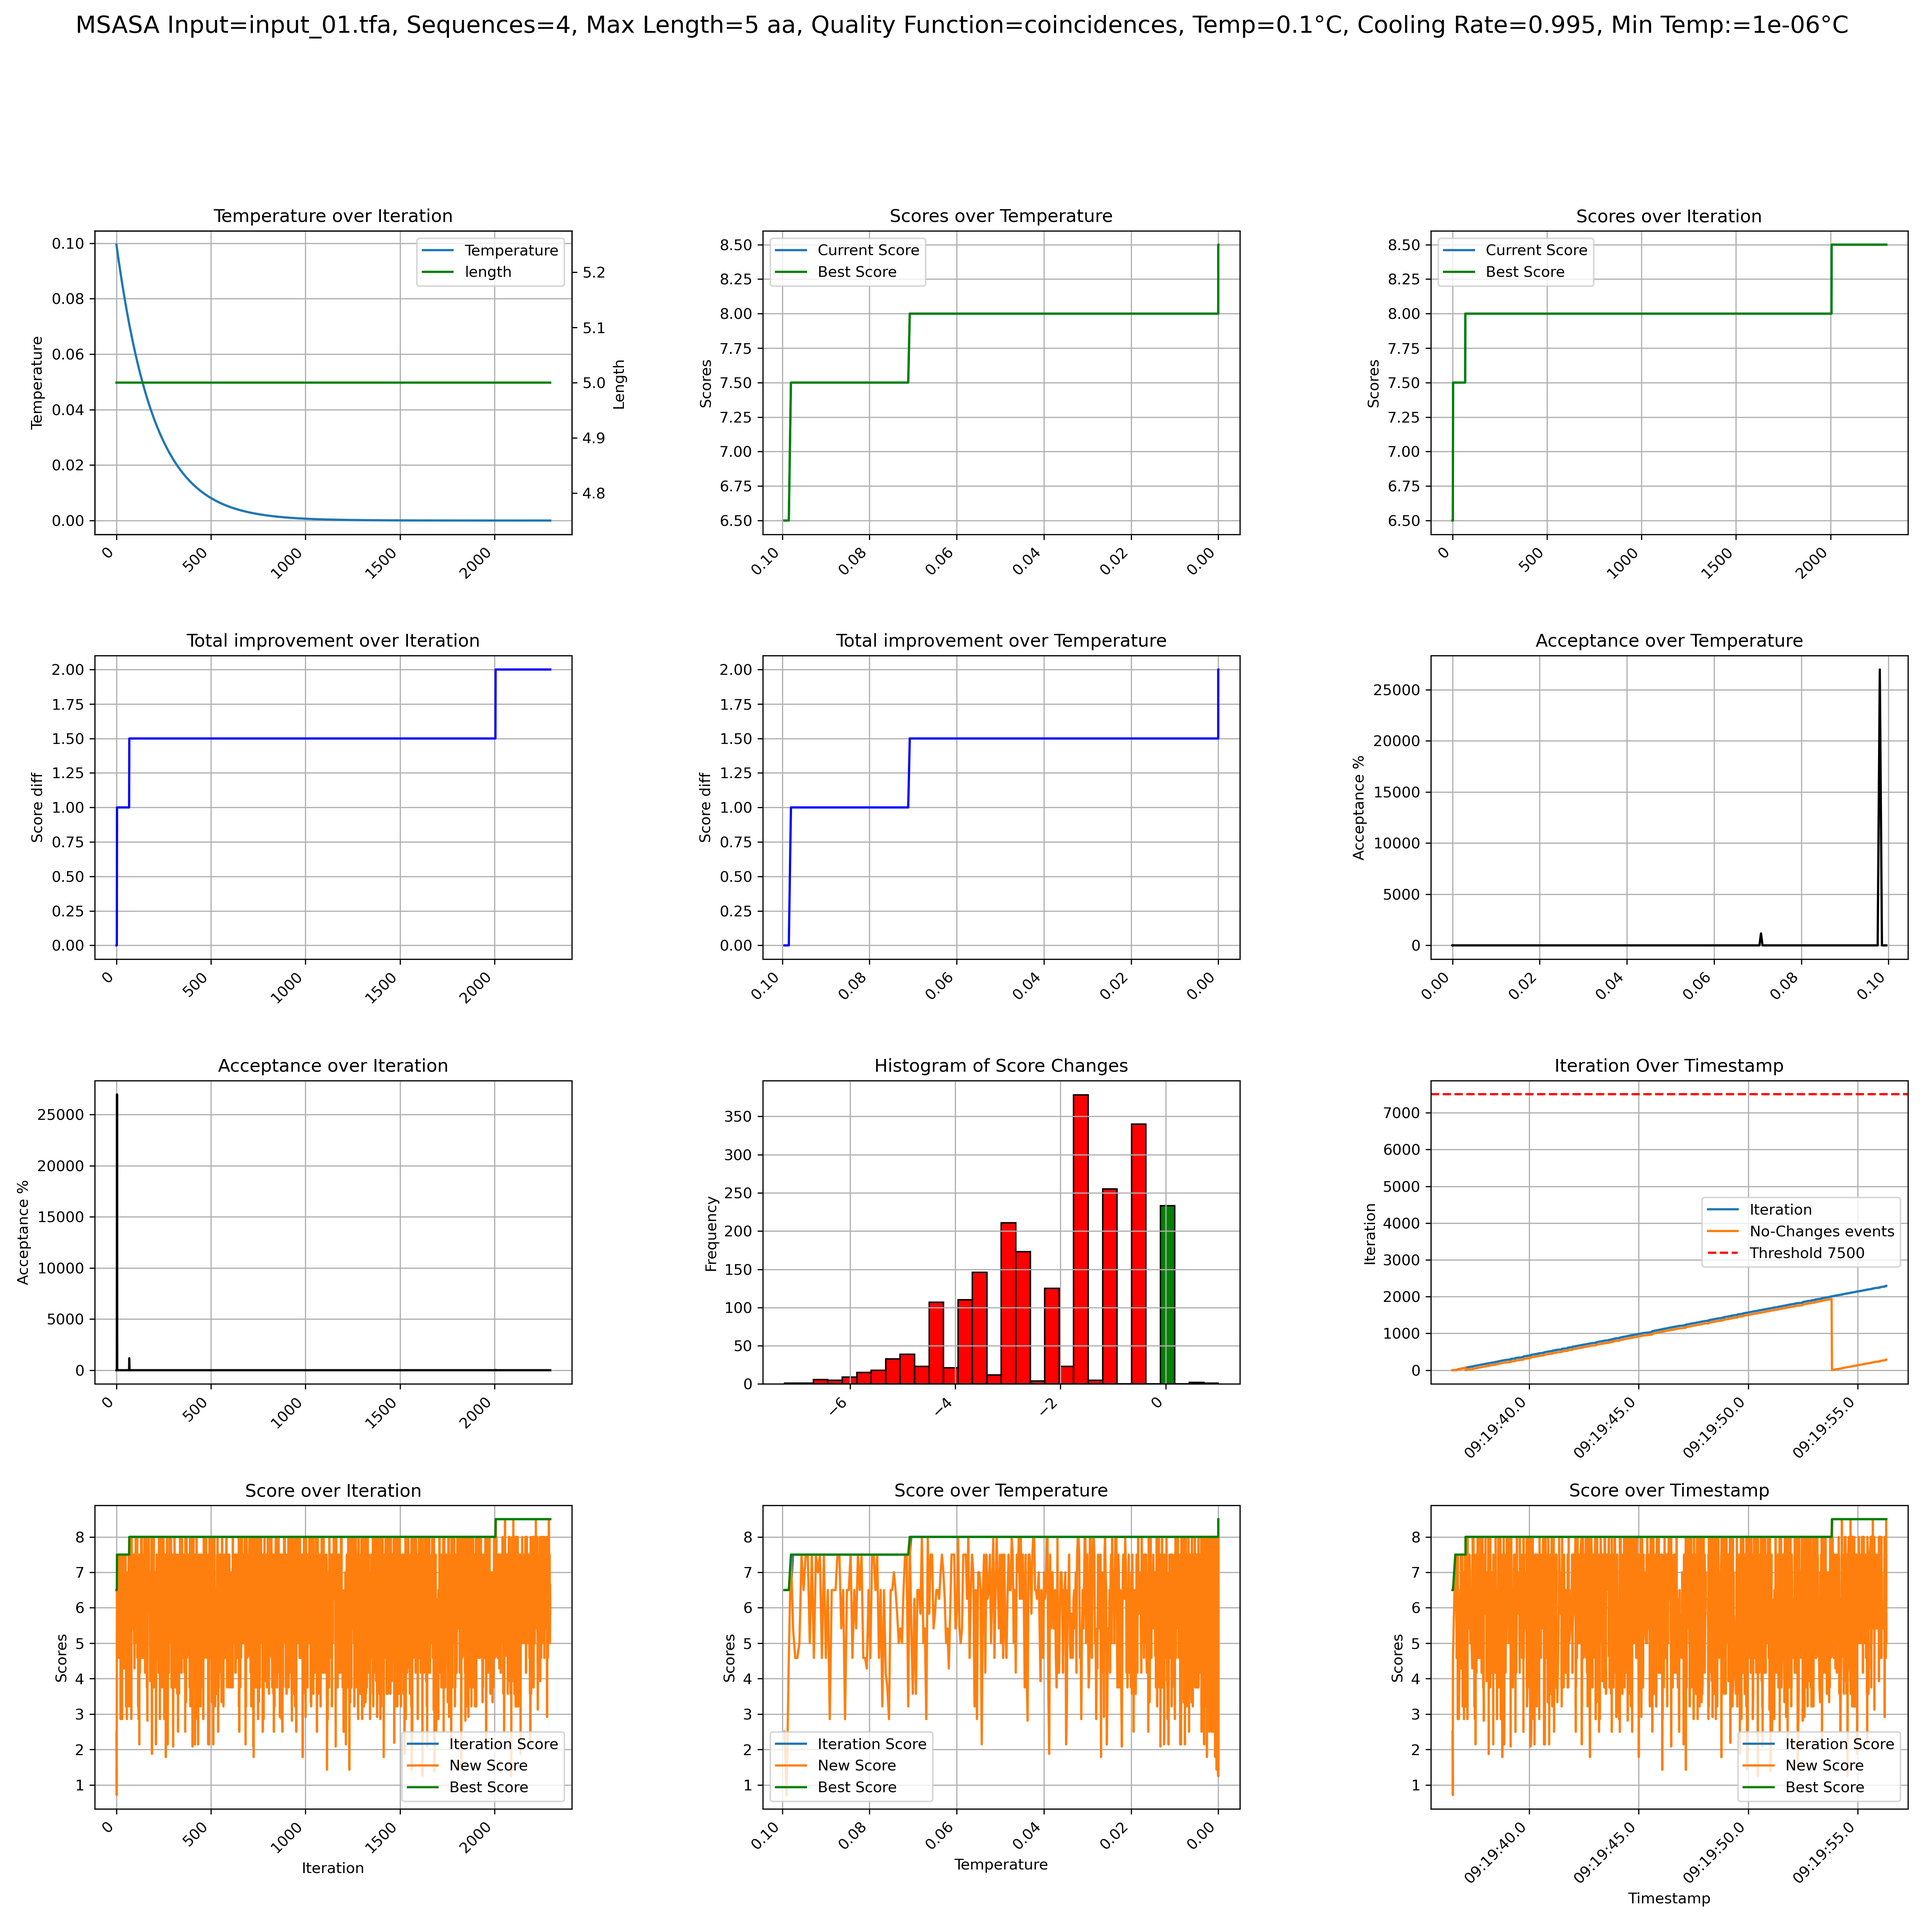
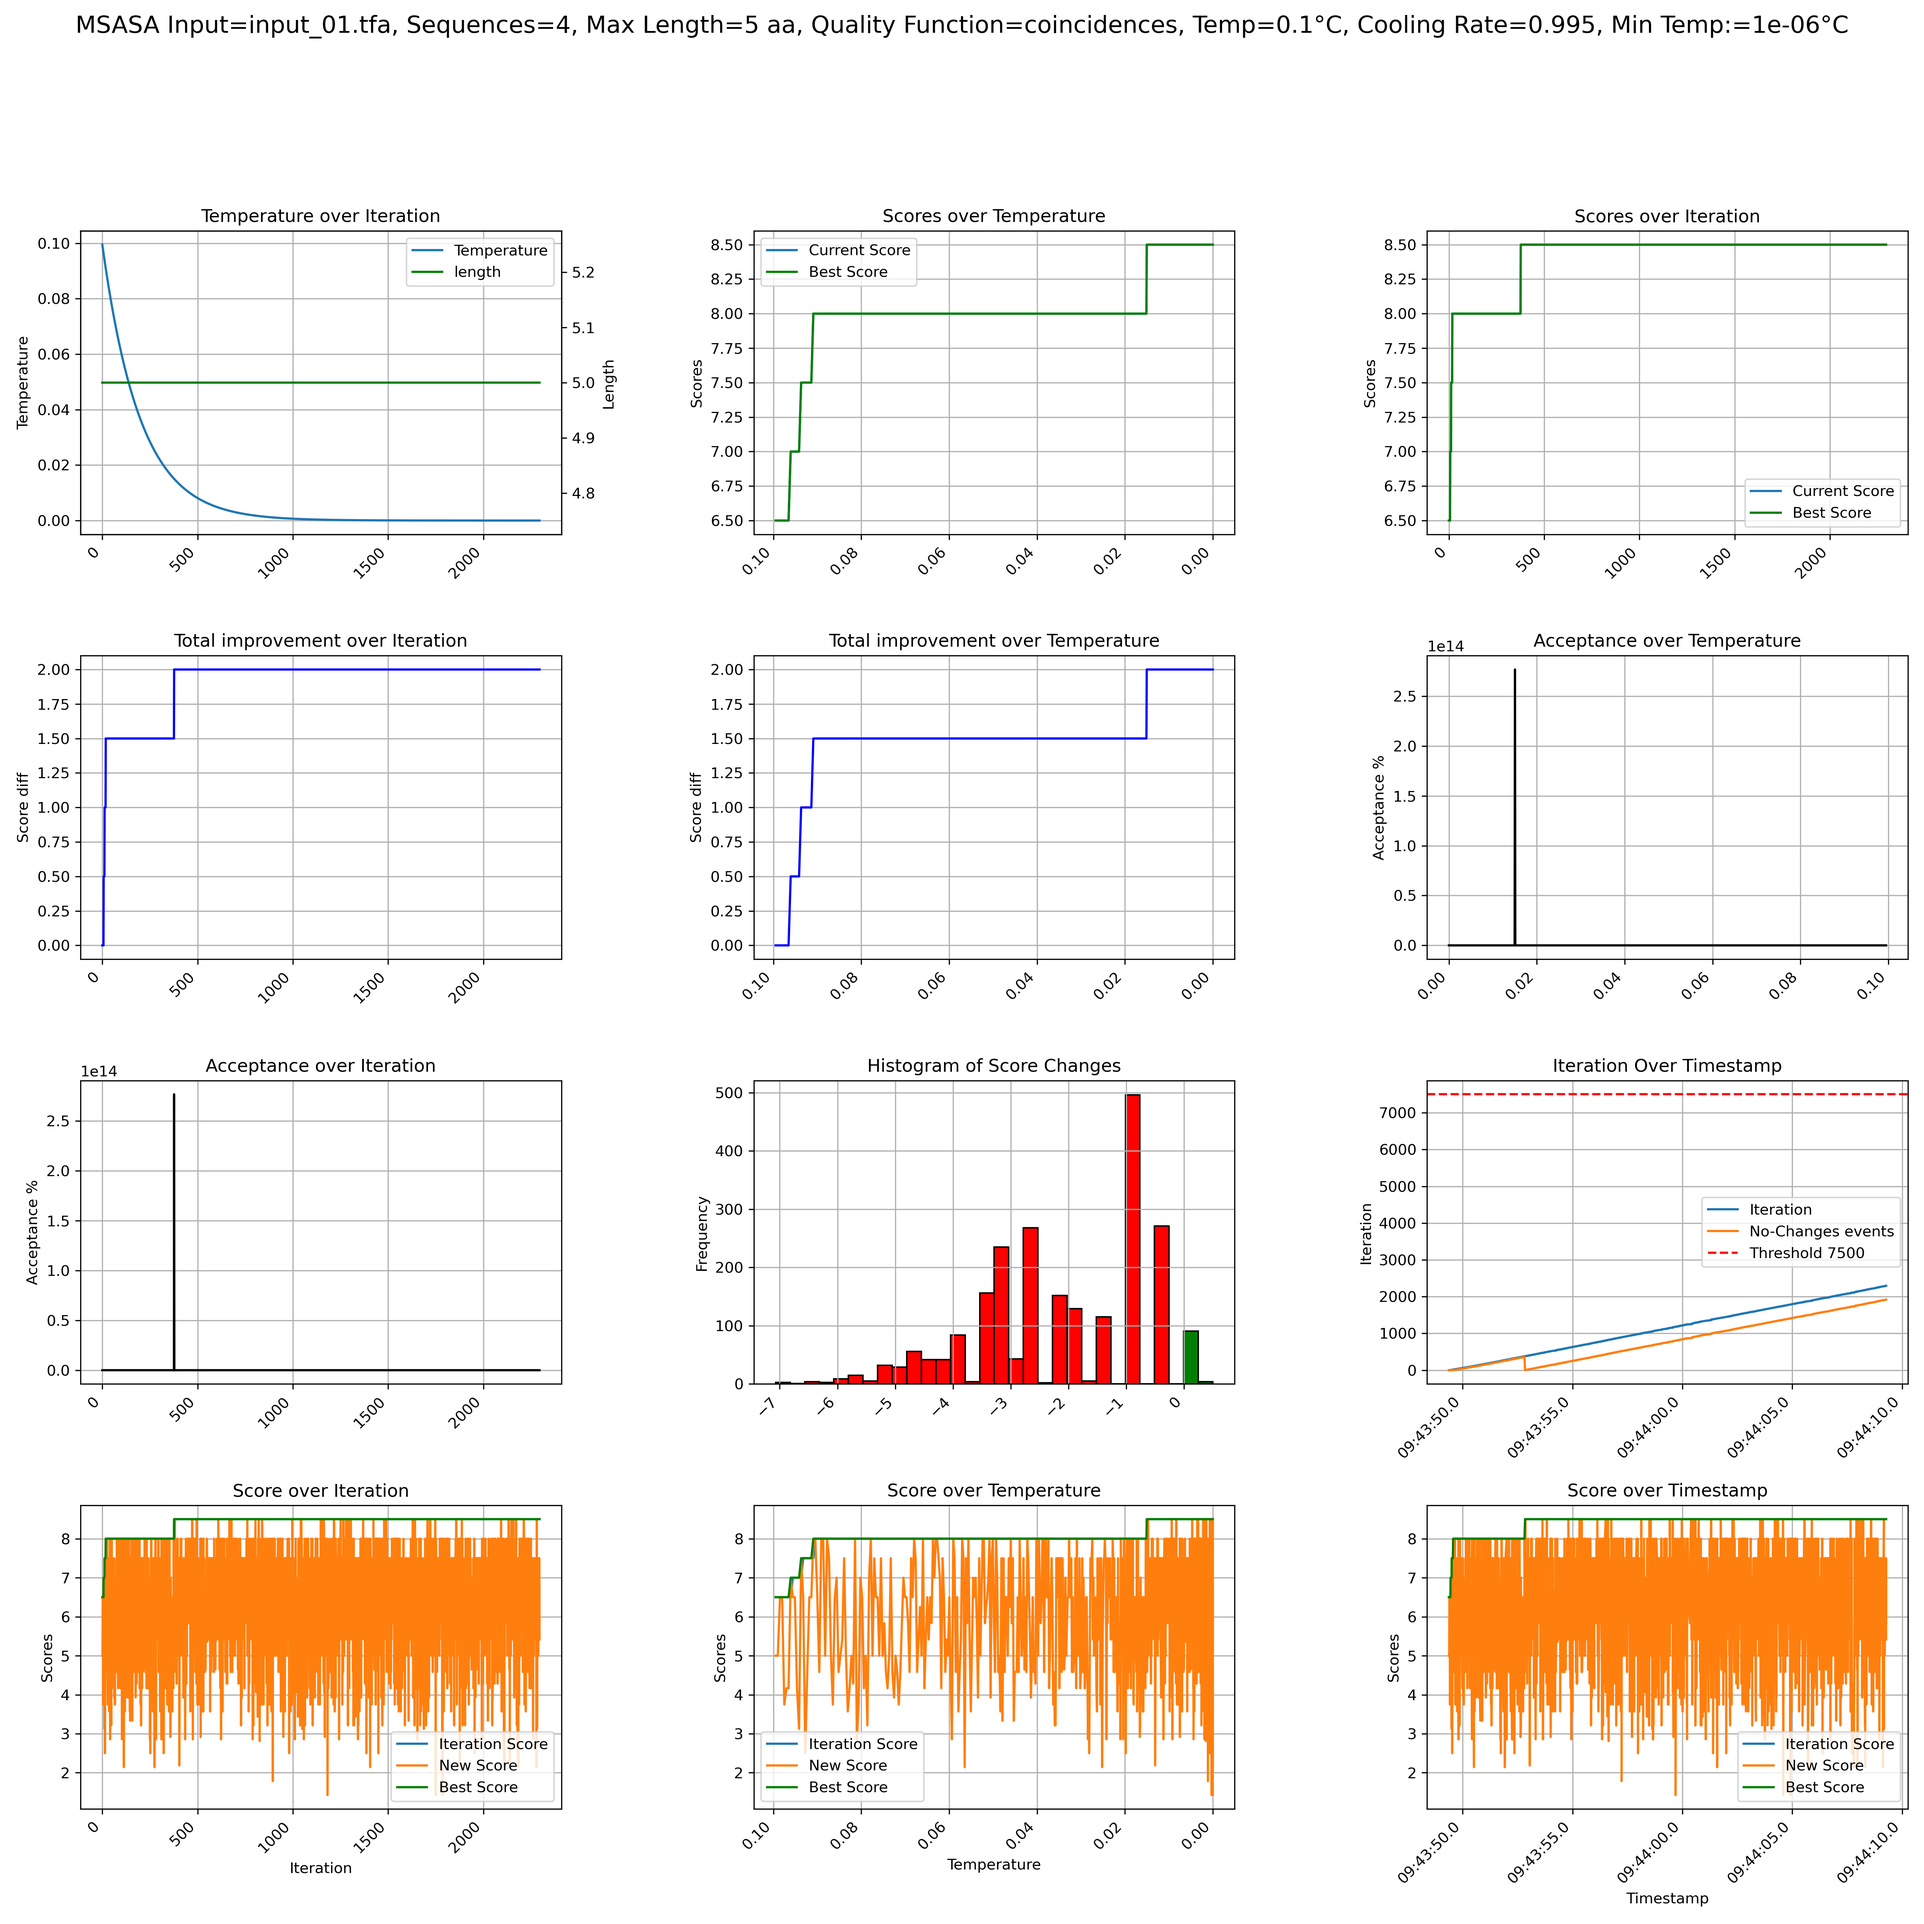
Add more tracks

diff --git a/src/msasa/objective_functions.py b/src/msasa/objective_functions.py
@@ -21,14 +21,14 @@ class ObjectiveFunction(ABC):
         self.column_energy_hits = 0
 
     @abstractmethod
-    @lru_cache(maxsize=1024)
+    @lru_cache(maxsize=20480)
     def compute_column(self, column_hash) -> float:
         pass
 
     def divider(self, rows, columns) -> float:
         return 1.0
 
-    @lru_cache(maxsize=2048)
+    @lru_cache(maxsize=40960)
     def energy(self, columns_bytes, sequences, residues) -> float:
         self.sequence_energy_hits += 1
 
@@ -49,7 +49,7 @@ class Coincidences(ObjectiveFunction):
     def divider(self, rows, columns) -> float:
         return columns
 
-    @lru_cache(maxsize=1024)
+    @lru_cache(maxsize=20480)
     def compute_column(self, column_hash) -> float:
         self.column_energy_hits += 1
         column = np.frombuffer(column_hash, dtype="|S1")
@@ -80,7 +80,7 @@ class Identity(ObjectiveFunction):
     def divider(self, rows, columns) -> float:
         return columns
 
-    @lru_cache(maxsize=1024)
+    @lru_cache(maxsize=20480)
     def compute_column(self, column_hash) -> float:
         self.column_energy_hits += 1
         column = np.frombuffer(column_hash, dtype="|S1")
@@ -98,7 +98,7 @@ class Similarity(ObjectiveFunction):
         self.similarity_matrix = similarity_matrix
         super().__init__()
 
-    @lru_cache(maxsize=1024)
+    @lru_cache(maxsize=20480)
     def compute_column(self, column_hash) -> float:
         self.column_energy_hits += 1
         column = np.frombuffer(column_hash, dtype="|S1")
@@ -114,7 +114,7 @@ class GlobalLocalAlignmentQuality(ObjectiveFunction):
     def divider(self, rows, columns) -> float:
         return columns
 
-    @lru_cache(maxsize=1024)
+    @lru_cache(maxsize=20480)
     def compute_column(self, column_hash) -> float:
         self.column_energy_hits += 1
         column = np.frombuffer(column_hash, dtype="|S1")

diff --git a/src/msasa/simulated_annealing.py b/src/msasa/simulated_annealing.py
@@ -162,7 +162,11 @@ class SimulatedAnnealing:
         current_temp, iteration, no_changes, total_accepted, total_rejected, sequences_energy_cached, column_energy_cached = self.temp, 0, 0, 0, 0, 0, 0
 
         current_score_columns = np.sort(self.sequences.transpose(), axis=1)
+
+        before = self.quality_function_instance.sequence_energy_hits
         self.current_score: float = self.quality_function_instance.energy(current_score_columns.tobytes(), self.sequences.shape[0], self.sequences.shape[1])
+        if before == self.quality_function_instance.sequence_energy_hits:
+            sequences_energy_cached += 1
 
         initial_score, best_score = self.current_score, self.current_score
 
@@ -176,7 +180,7 @@ class SimulatedAnnealing:
                     new_sequences_i_j = self.sequences.view()
 
                     for j in np.arange(np.random.randint(1, self.changes)):
-                        new_sequences_i_j = self.generate_new_sequences(new_sequences_i_j, addition_deletion_prob=0.4)
+                        new_sequences_i_j = self.generate_new_sequences(new_sequences_i_j, addition_deletion_prob=0.5)
 
                     new_sequences_columns = np.sort(new_sequences_i_j.transpose(), axis=1)
                     before = self.quality_function_instance.sequence_energy_hits
